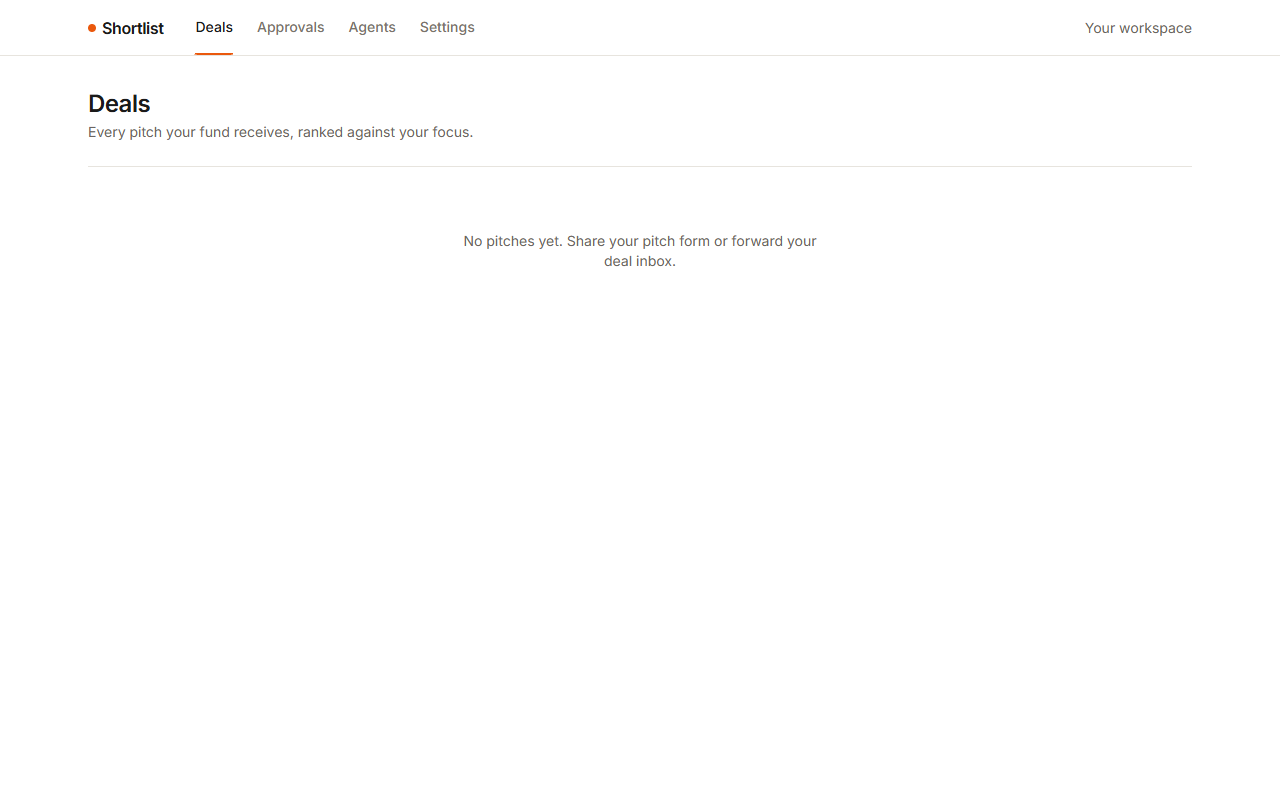
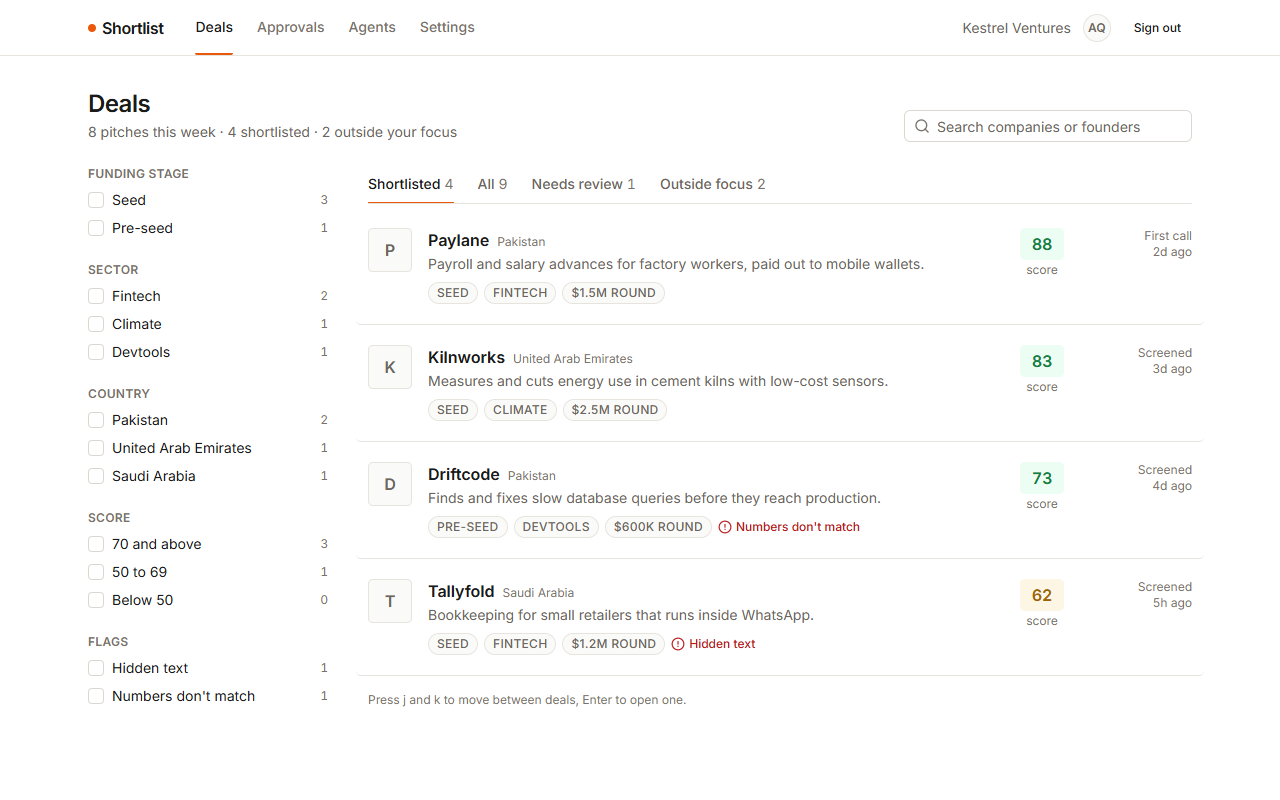
feat: document the deck route and refresh dashboard screenshots

diff --git a/docs/progress.md b/docs/progress.md
@@ -60,7 +60,8 @@ Update this file when a task finishes. One line per task: `- [x] what (commit or
 ## Milestone 3 — Research + Memo + dashboard
 - [ ] Research agent with Google Search grounding + source URLs + 30-day cache (live runs need billing on the key; tests use recorded fixtures)
 - [ ] Memo agent + template rendering + PDF/Markdown export
-- [ ] Deals list (directory style) and Deal page with deck viewer + citation jumps
+- [x] Deals list (directory style) and Deal page with deck viewer + citation jumps (§18). Screening's stored schemas moved to `@shortlist/schemas` (`src/screening.ts`, incl. `dealFactsShape`; the agent's `schema.ts` re-exports them and keeps `OTHER` and `dealFactsSchemaFor`) with a new run output `screeningOutputSchema` (facts, profile, round-size mismatches, hidden spans, mandate, scores + total present exactly when inside the mandate) and a stored `dealFactsSchema`; no migration (Screening writes `agent_run.output` and `deal.profile/total_score/integrity_flag`). `pnpm db:seed` adds 9 fictional deals to a Kestrel workspace without deals (`seed/demo-deals.ts`, `seed-deals.ts`; also into an already seeded Kestrel): screened, first call (with a `stage_transition`), needs review, two out of mandate, a failed Screening run, a deck-less email pitch; hidden text and a form-vs-deck mismatch; all events processed; seeded runs have no model, prompt or usage. The seed only adds deals to a synthetic Kestrel. 8 synthetic PDFs (`apps/web/synthetic-decks/`, from `seed/demo-decks.ts` by `pnpm --filter @shortlist/web decks:generate`, ETag = quoted MD5). `packages/db/tests/demo-deals.test.ts` checks every seeded result with Screening's own `checkMandate`, `totalScore`, `citationIssues` and `findHiddenSpans` (`@shortlist/agents-screening` is a db devDependency); `apps/web/tests/synthetic-decks.test.ts` checks each PDF against its ETag. `kestrelConfig` is exported as `@shortlist/db/kestrel-config`. Access: `listDeals`, `getDealView`, `getDealDeck` (`packages/db/access/dashboard.ts`, JSON parsed on read). `/deals`: tabs (Shortlisted, All, Needs review, Outside focus), search, sidebar filters by funding stage, sector, country, score band and flags (URL params, Zod-validated and capped: search 200 chars, 20 values of 64 chars per parameter; only values present in the workspace are listed; filtering in `lib/deals/list.ts`, in memory; flags come from the latest succeeded Screening run's parsed output), ranked by score, j/k focus, Filters sheet under 768px. `/deals/[dealId]`: header, mandate rows, scores with reasoning (labels and weights from the run's config version), facts, banners for hidden text, mismatch and failed runs, and a pdf.js viewer (no XFA, 32-megapixel image cap, `stopAtErrors: false`; `pdfjs-dist` 6.5: the standard browser PDF renderer, needed because headless and mobile browsers don't render PDFs inline) whose citation chips jump to the page and show the quote. The quote is shown under the page, not highlighted in the PDF text layer (hidden text lives there). `GET /deals/[dealId]/deck`: authorize, deal by session workspace, then a synthetic workspace's bundled PDF (key checked with storage's `assertDeckKey`, ETag-checked, `Content-Security-Policy: sandbox`, `outputFileTracingIncludes` ships the PDFs) or a 303 to a 60 s presigned R2 GET (`presignDeckView`: inline PDF, `private, no-store`). Production responses carry a CSP (`next.config.ts`): `worker-src 'self' blob:`, `object-src 'none'`, `base-uri 'none'`, `frame-ancestors 'none'`, `connect-src 'self'` + the R2 bucket origin, `script-src 'self' 'unsafe-inline'`. `/deals/:path*` was already in the proxy matcher. `NavLinks` now streams inside Suspense (dynamic route prerendering). shadcn Checkbox and Sheet added. Screenshots: `docs/ui/screens/built/deals-1280.png`, `deals-390.png`, `deals-filters-390.png`, `deals-loading-1280.png`, `deal-1280.png`, `deal-390.png`, `deal-flagged-1280.png`
+- [ ] Dashboard follow-ups: (a) R2 bucket CORS for the viewer: allow GET and HEAD with the `Range` request header from exactly `APP_URL` (pdf.js follows the route's 303 to the presigned URL); untested live; (g) CSP: `script-src` keeps `'unsafe-inline'` because Next writes its RSC payload in inline scripts and per-request nonces can't reach prerendered shells (cacheComponents); revisit nonces or hashes when Next supports them with partial prerendering; no CSP in `next dev` (needs eval and the HMR socket); (h) Screening's `definition.ts` must use `screeningOutputSchema` as its `outputSchema`, so what the dashboard parses is what the agent wrote; (b) `listDeals` reads every deal of the workspace; page or move filtering into SQL when volume needs it; (c) the viewer shows the first submission's deck (what `deal.received`'s Screening read); revisit with Intake follow-up (f); (d) stage moves (Advance, Pass), notes and the Memo/Research/History tabs aren't built (tabs shown as "Coming soon"); (e) the local `.env` needs `R2_*` values for `pnpm dev` to render signed-in pages (dummy values work for the synthetic demo workspace); (f) no favicon (404 in the browser console)
 
 ## Milestone 4 — Comms + Pipeline
 - [ ] Approvals inbox + approval state machine (§11.4)

diff --git a/docs/design.md b/docs/design.md
@@ -619,7 +619,7 @@ erDiagram
 | `submission` | seq, deal_id, channel, form_data, founder_email (normalized, §7.1), deck_object_key, deck_etag (set exactly with the key, §15.3), deck_sha256, raw_email_key |
 | `document` | deal_id, kind (`deck`/`financials`/`cap_table`/`other`), object_key, uploaded_by |
 | `event` | workspace_id, deal_id (nullable: §8.2), type, payload, created_at, processed_at, dispatch_attempts, dispatch_error, deferred_until |
-| `agent_run` | workspace_id, deal_id (nullable: an Intake run starts before its deal exists), agent, trigger_event_id, config_version_id, prompt_version, model, input_hash, status, output (jsonb), tokens_in, tokens_out, cost_micros, latency_ms, error; unique (agent, trigger_event_id) |
+| `agent_run` | workspace_id, deal_id (nullable: an Intake run starts before its deal exists), agent, trigger_event_id, config_version_id, prompt_version, model, input_hash, status, output (jsonb, parsed with the agent's output schema; Screening's is `screeningOutputSchema` in `@shortlist/schemas`: facts, profile, mismatches, hidden spans, mandate result, scores and total), tokens_in, tokens_out, cost_micros, latency_ms, error; unique (agent, trigger_event_id) |
 | `run_step` | run_id, step, output (jsonb), status, tokens_in, tokens_out, cost_micros (each step attempt's model usage, failed ones included; the run's totals are their sum) |
 | `outbound_message` | run_id, deal_id, kind, draft, final_text, status, decided_by, sent_at |
 | `note` | deal_id, user_id, body, created_at |
@@ -775,7 +775,7 @@ Hidden prompt injections already appear in about 1% of real-world resumes [7]; p
 - Public form uploads: presigning writes a `pending_upload` row (key, presigned size, expiry one hour on the database clock, so the founder can finish the form). Submitting the form is the confirm step: it looks the row up by key and the workspace resolved from the page's slug, refuses an unknown, expired or already-confirmed row, verifies the object at the stored size (never a size from the request), deletes the object and then the row when verification rejects the stored object (wrong size, type or magic bytes; a missing object deletes nothing and keeps the row, since the upload may still be in flight), and otherwise confirms the row with the ETag in the same transaction as `form.submitted`.
 - Object keys are `workspaces/<workspaceId>/decks/<uuid>.pdf`: the workspace id comes from the session, API key or job, and the id is generated by the server. Nothing a founder supplies (file name, form field) is part of a key. Reads and verifications refuse a key outside the caller's workspace prefix.
 - Rendering runs in the worker container with CPU and memory limits and a 60-second timeout.
-- No file has a public URL; viewing uses 60-second presigned links after authorization.
+- No file has a public URL; viewing uses 60-second presigned links after authorization (`GET /deals/{id}/deck` redirects to one). A synthetic workspace (the demo) has no files in R2: its decks are the bundled synthetic PDFs in `apps/web/synthetic-decks/`, which the same route sends after authorization, checked against the submission's ETag. `workspace.synthetic` decides which, never a fallback.
 
 ### 15.4 Privacy
 
